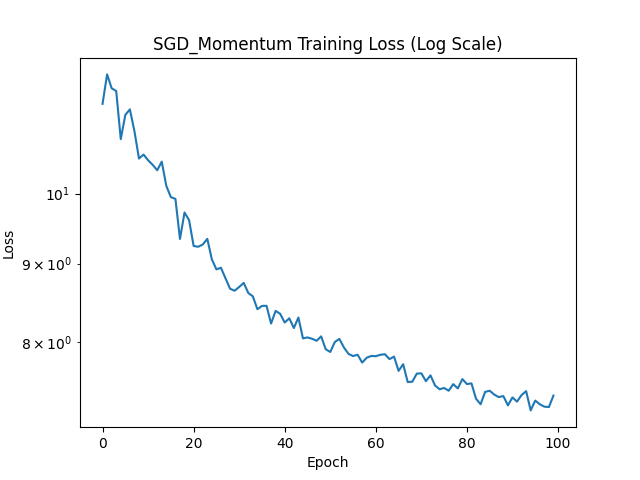
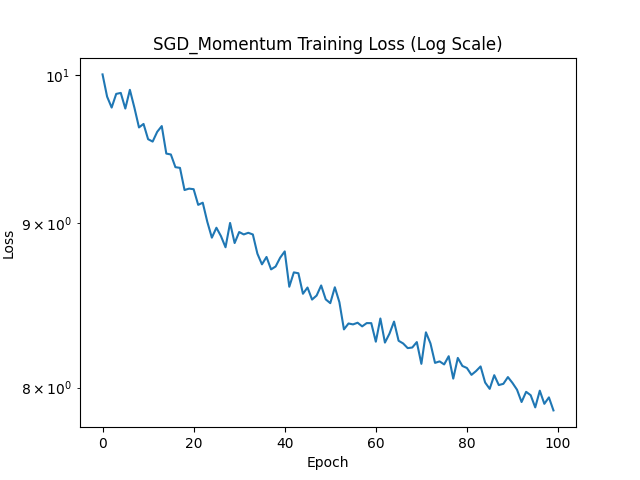
final

diff --git a/optimizer/shampoo.py b/optimizer/shampoo.py
@@ -1,81 +1,91 @@
 import torch
 from torch.optim.optimizer import Optimizer
 
+
+def _matrix_power(matrix, power):
+    # use CPU for svd for speed up
+    matrix = matrix.cpu()
+    u, s, v = torch.svd(matrix)
+    return (u @ s.pow_(power).diag() @ v.t())
+
+
 class Shampoo(Optimizer):
+
     def __init__(self, params, lr=1e-1, momentum=0, weight_decay=0, epsilon=1e-4, update_freq=1):
+        """
+
+        :param params (iterable): iterable of parameters to optimize or dicts defining
+            parameter groups
+        :param lr (float, optional): learning rate (default: 1e-1)
+        :param momentum: (float, optional): momentum factor (default: 0)
+        :param weight_decay: (float, optional): weigt decay factor (default: 0)
+        :param epsilon: (float, optional): momentum factor (default: 1e-4)
+        :param update_freq: (int, optional): update frequency to compute inverse (default: 1)
+        """
         defaults = dict(lr=lr, momentum=momentum, weight_decay=weight_decay, epsilon=epsilon, update_freq=update_freq)
         super(Shampoo, self).__init__(params, defaults)
 
-    
-    def step(self, closure = None):
+    def step(self, closure=None):
         loss = None
         if closure is not None:
             loss = closure()
 
-        
         for group in self.param_groups:
             for p in group["params"]:
-                continue
-            grad = p.grad.data
-            grad_dim = grad.ndimension()
-            orig_shape = grad.size()
-            state = self.state[p]
-            momentum = group["momentum"]
-            lr = group["lr"]
-            weight_decay = group["weight_decay"]
+                if p.grad is None:
+                    continue
+                grad = p.grad.data
+                order = grad.ndimension()
+                original_size = grad.size()
+                state = self.state[p]
+                momentum = group["momentum"]
+                weight_decay = group["weight_decay"]
 
-            if len(state) == 0:
-                state['step'] = 0
+                if len(state) == 0:
+                    state["step"] = 0
+                    if momentum > 0:
+                        state["momentum_buffer"] = grad.clone()
+                    for dim_id, dim in enumerate(grad.size()):
+                        # precondition matrices
+                        state[f"precond_{dim_id}"] = group["epsilon"] * torch.eye(dim, out=grad.new(dim, dim))
+                        state[f"inv_precond_{dim_id}"] = grad.new(dim, dim).zero_()
+
                 if momentum > 0:
-                    state['momentum_buffer'] = grad.clone()
-                for dim_id, dim in enumerate(grad.size()):
-                    state[f"precond_{dim_id}"] = group["epsilon"] * torch.eye(dim, out=grad.new(dim, dim))
-                    state[f"inv_precond_{dim_id}"] = grad.new(dim, dim).zero_()
-                
-                if momentum > 0:
+                    # grad = (1 - moment) * grad(t) + moment * grad(t-1)
+                    # and grad(-1) = grad(0)
                     grad.mul_(1 - momentum).add_(momentum, state["momentum_buffer"])
-                
-                if weight_decay != 0:
-                    grad.add_(weight_decay, p.data)
-                
+
+                if weight_decay > 0:
+                    grad.add_(group["weight_decay"], p.data)
+
+                # See Algorithm 2 for detail
                 for dim_id, dim in enumerate(grad.size()):
                     precond = state[f"precond_{dim_id}"]
                     inv_precond = state[f"inv_precond_{dim_id}"]
 
+                    # mat_{dim_id}(grad)
                     grad = grad.transpose_(0, dim_id).contiguous()
-                    transposed_shape = grad.size()
+                    transposed_size = grad.size()
                     grad = grad.view(dim, -1)
-                    gradt = grad.t()
-                    precond.add_(grad @ gradt)
 
-                    if state['step'] % group["update_freq"] == 0:
-                        u, s, v = torch.svd(precond)
+                    grad_t = grad.t()
+                    precond.add_(grad @ grad_t)
+                    if state["step"] % group["update_freq"] == 0:
+                        inv_precond.copy_(_matrix_power(precond, -1 / order))
 
-                        inv_precond.copy_(u @ (s.pow_(-1/grad_dim).diag()) @ v.t())
-
-                    if dim_id == grad_dim - 1:
-                        grad = gradt @ inv_precond
-                        grad = grad.view(orig_shape)
-                    
+                    if dim_id == order - 1:
+                        # finally
+                        grad = grad_t @ inv_precond
+                        # grad: (-1, last_dim)
+                        grad = grad.view(original_size)
                     else:
+                        # if not final
                         grad = inv_precond @ grad
-                        grad = grad.view(transposed_shape)
-                    
-                state['step'] += 1
-                state['momentum_buffer'] = grad
-                p.data.add_(-lr, grad)
-                
+                        # grad (dim, -1)
+                        grad = grad.view(transposed_size)
+
+                state["step"] += 1
+                state["momentum_buffer"] = grad
+                p.data.add_(-group["lr"], grad)
+
         return loss
-
-                    
-
-                    
-
-                    
-
-                        
-
-
-        
-
-

diff --git a/eval.py b/eval.py
@@ -101,7 +101,7 @@ if __name__ == '__main__':
     
     # Create DataLoaders
     train_dataset = TensorDataset(X_train, y_train)
-    train_loader = DataLoader(train_dataset, batch_size=10000, shuffle=True)
+    train_loader = DataLoader(train_dataset, batch_size=100000, shuffle=True)
     
     # Train with different optimizers
     optimizers = {
@@ -117,7 +117,7 @@ if __name__ == '__main__':
         
         model = LogisticRegression(28*28)
         if opt_name == 'Shampoo':
-            optimizer = opt_class(model.parameters(), lr=0.00001, momentum=0.9)
+            optimizer = opt_class(model.parameters(), lr=0.01, momentum=0.9)
         elif opt_name == 'SGD':
             optimizer = opt_class(model.parameters(), lr=0.001)
         else:
